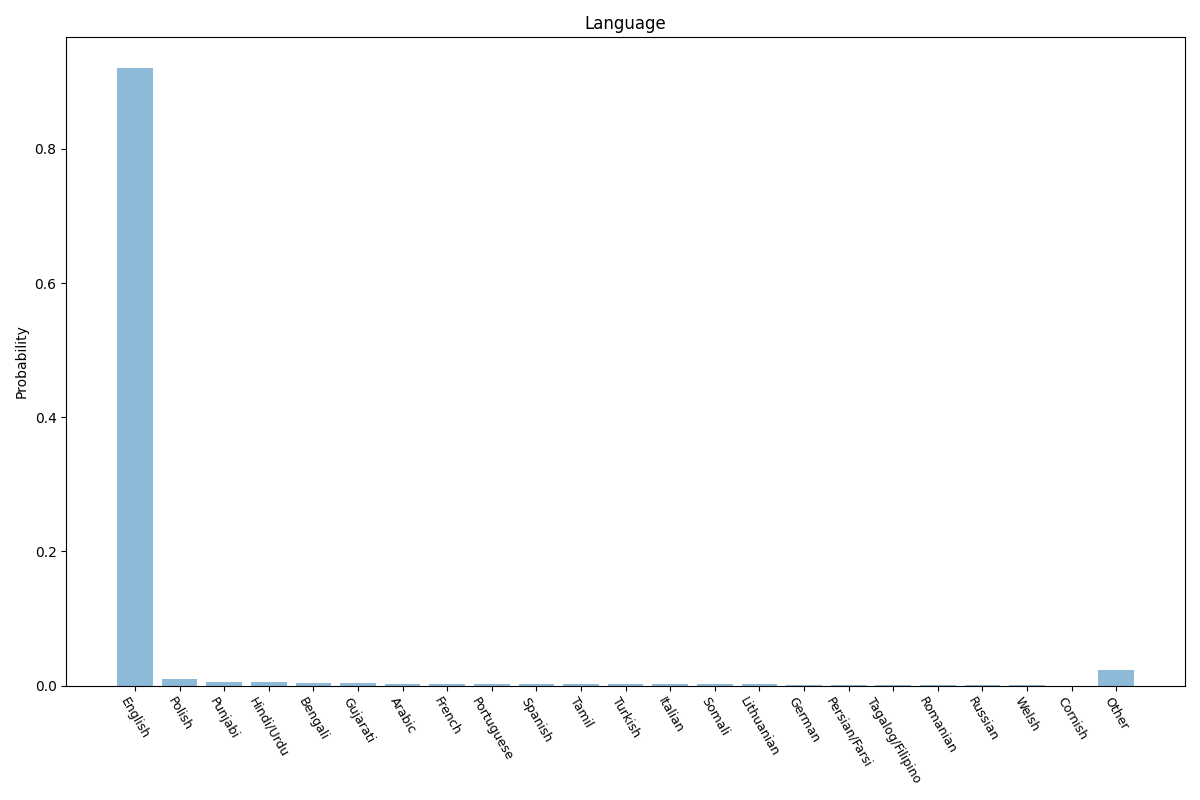
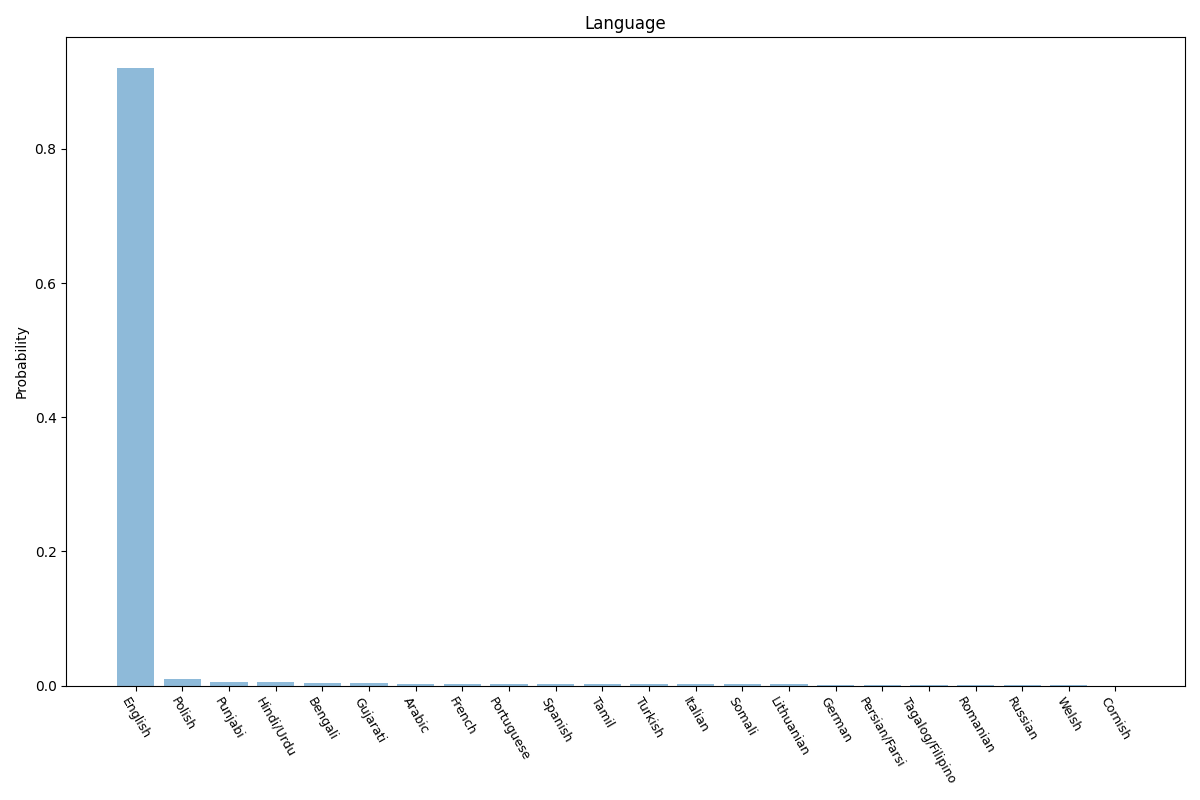
France data

Changed region(s): [[0.0925, 0.8125, 0.9558, 0.9688]]

diff --git a/README.md b/README.md
@@ -53,6 +53,7 @@ $ curl https://persona-api.vercel.app/v1/locations/
 [
   "australia",
   "canada",
+  "germany",
   "global",
   "united_kingdom",
   "england",
@@ -160,4 +161,4 @@ To contribute:
 4. Push to the branch (`git push origin my-new-feature`)
 5. Create a new pull request
 
-When contributing data, keep content, directory structure and JSON formatting consistent and remember to note your source (including URL) in `data/.../<location>/README.md`. Sources should be from reputable organisations conducting census research. Do not worry if percentages do not sum to 1 exactly, all feature probabilities are normalised during generation.
+When contributing data, keep content, directory structure and JSON formatting consistent and remember to note your source (including URL) in `data/.../<location>/README.md`. Sources should be from reputable organisations conducting census research. Avoid "Other" as a feature attribute. Do not worry if percentages do not sum to 1 exactly, all feature probabilities are normalised during generation.

diff --git a/data/germany/README.md b/data/germany/README.md
@@ -1,0 +1,29 @@
+# Germany
+
+## Location
+
+![Location](img/location.png)
+
+## Religion
+
+![Religion](img/religion.png)
+
+## Language
+
+![Language](img/language.png)
+
+## Sources
+
+### Location
+
+Bevölkerung nach Nationalität und Bundesländern https://www.destatis.de/DE/Themen/Gesellschaft-Umwelt/Bevoelkerung/Bevoelkerungsstand/Tabellen/bevoelkerung-nichtdeutsch-laender.html
+
+### Language
+
+Federal Statistical Office
+
+https://www.destatis.de/DE/Themen/Gesellschaft-Umwelt/Bevoelkerung/Migration-Integration/Publikationen/Downloads-Migration/migrationshintergrund-2010220217004.pdf;jsessionid=AB98A48234888A7112E034C0E7328431.live712?__blob=publicationFile#page=503
+
+### Religion
+
+Religionszugehörigkeiten 2020 https://fowid.de/meldung/religionszugehoerigkeiten-2020

diff --git a/data/README.md b/data/README.md
@@ -9,12 +9,12 @@
 
 ## Countries
 
-- [x] `england`
-- [x] `wales`
-- [x] `scotland`
-- [x] `northern_ireland`
-- [ ] `france`
-- [ ] `germany`
+- [X] `england`
+- [X] `wales`
+- [X] `scotland`
+- [X] `northern_ireland`
+- [X] `france`
+- [X] `germany`
 - [ ] `spain`
 - [ ] `italy`
 - [ ] `ireland`

diff --git a/data/france/README.md b/data/france/README.md
@@ -1,0 +1,11 @@
+# France
+
+## Location
+
+![Location](img/location.png)
+
+## Sources
+
+### Location
+
+https://www.insee.fr/fr/statistiques/3303318?sommaire=3353488
